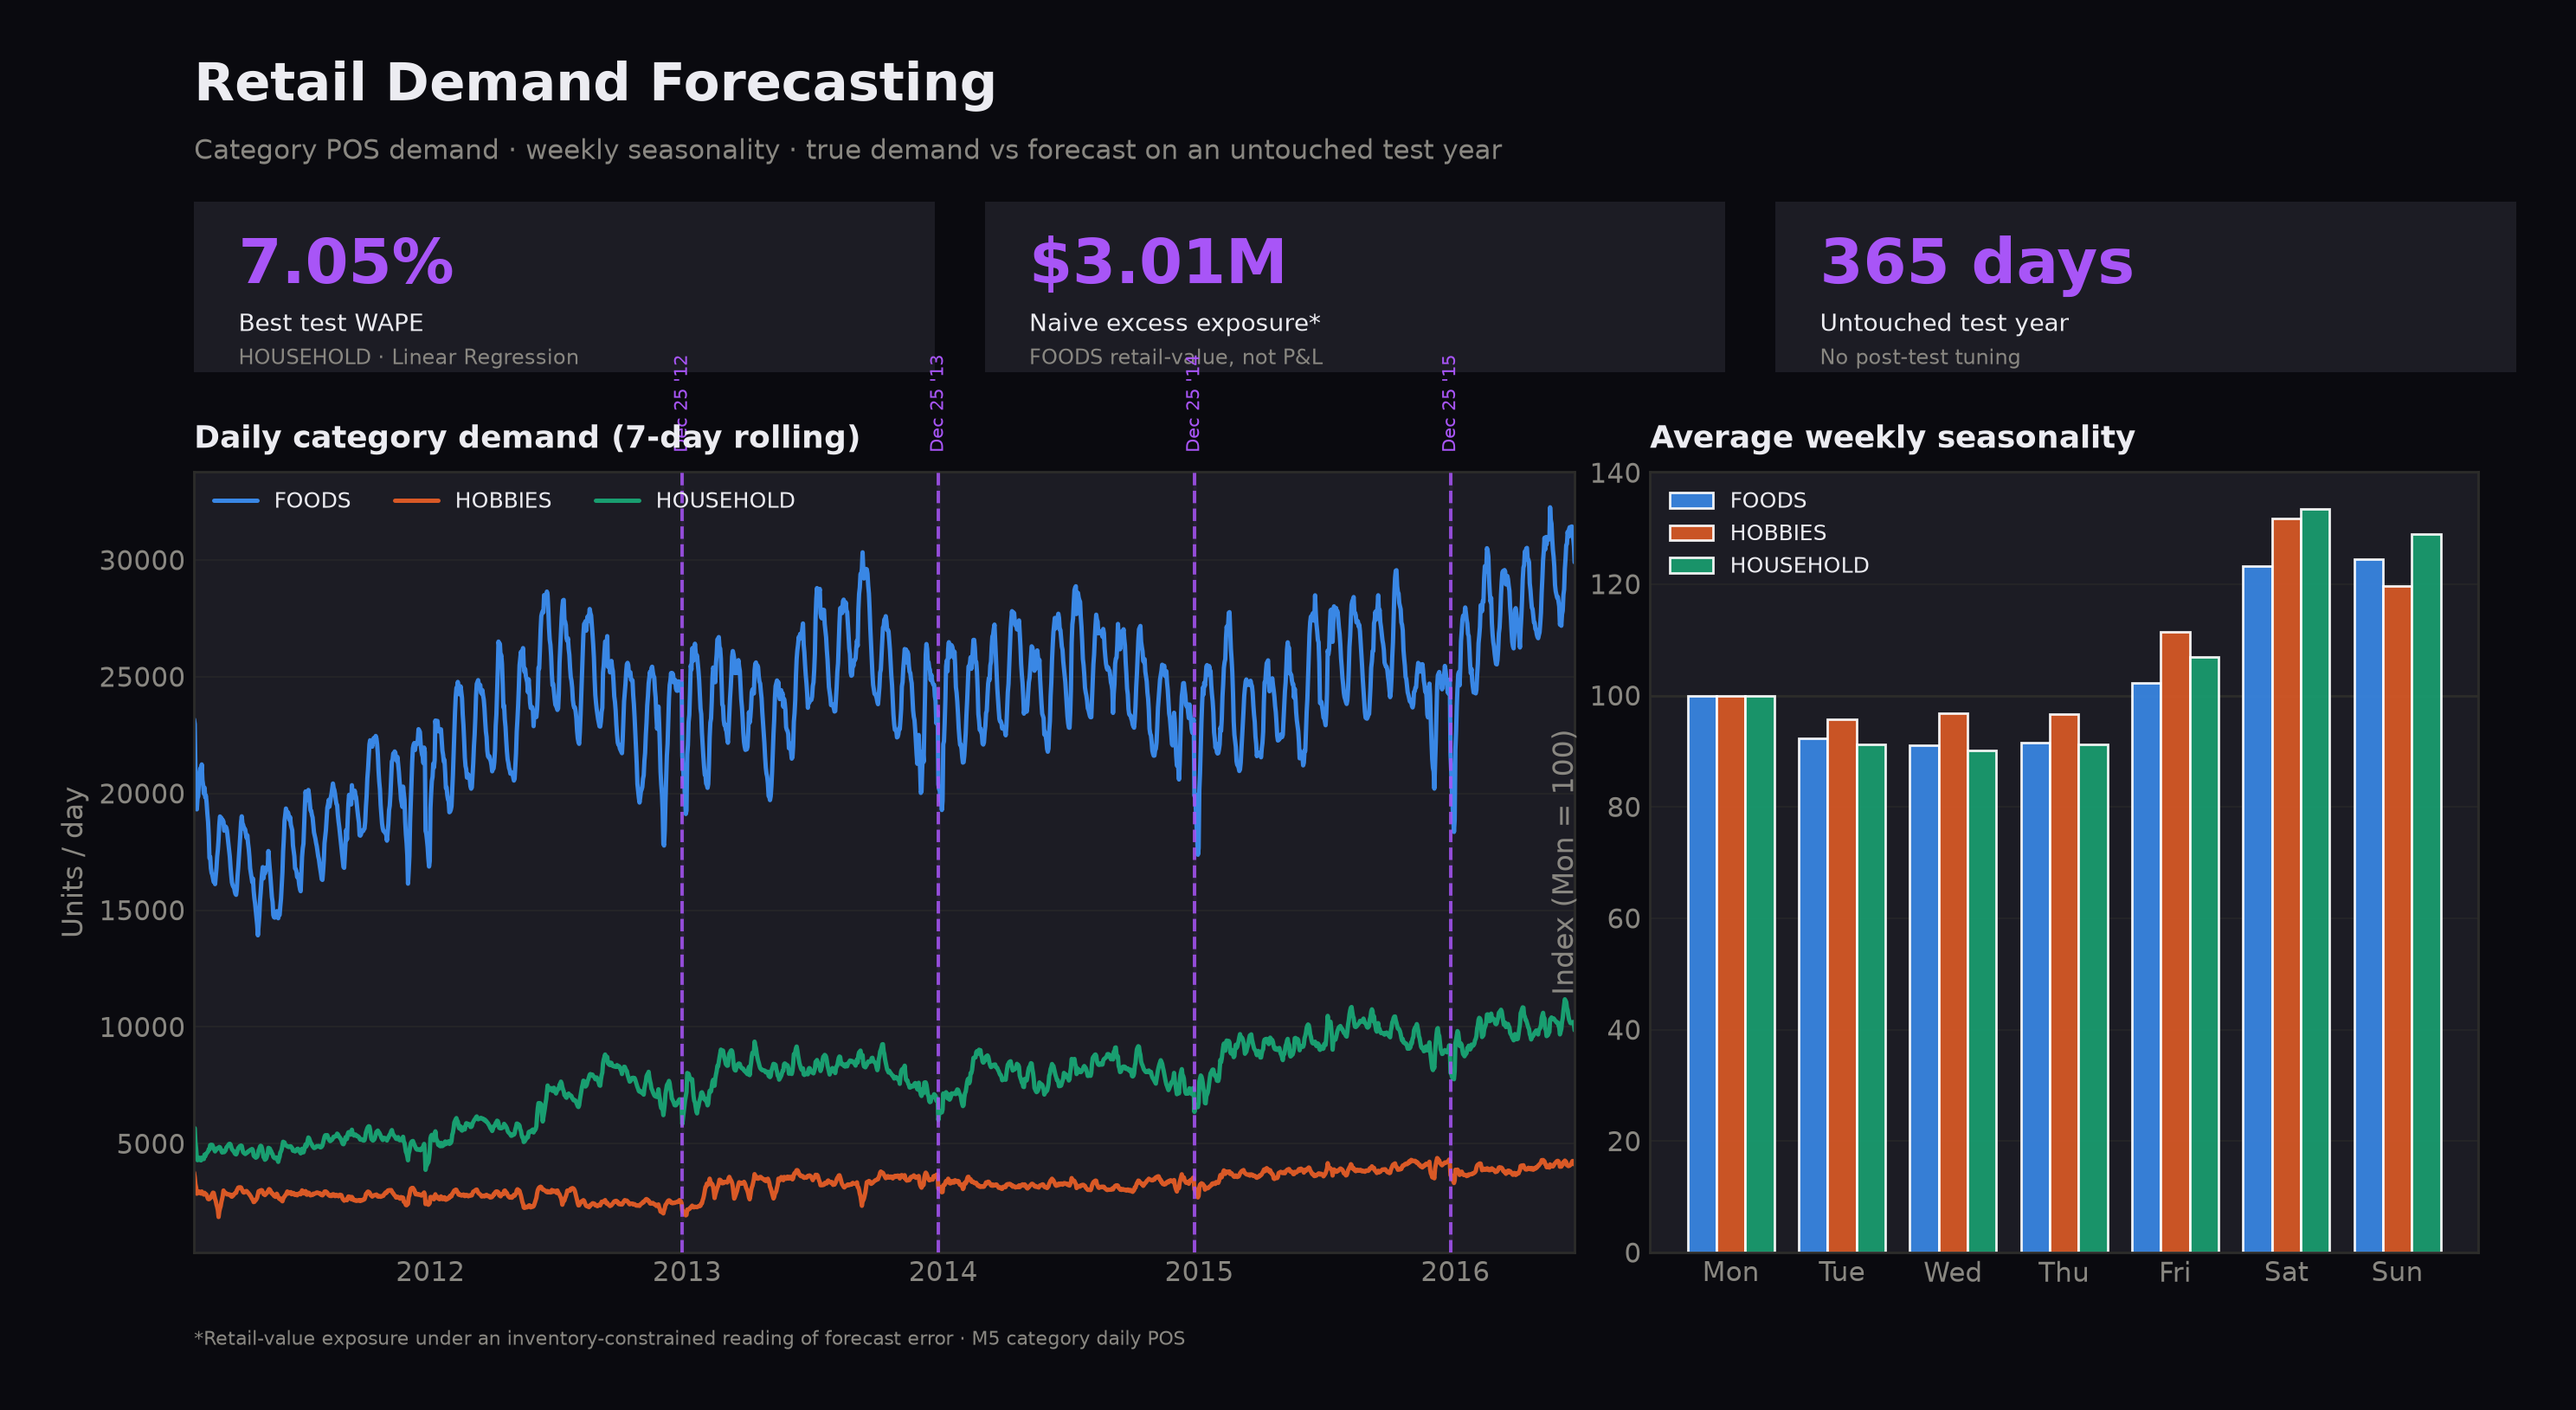
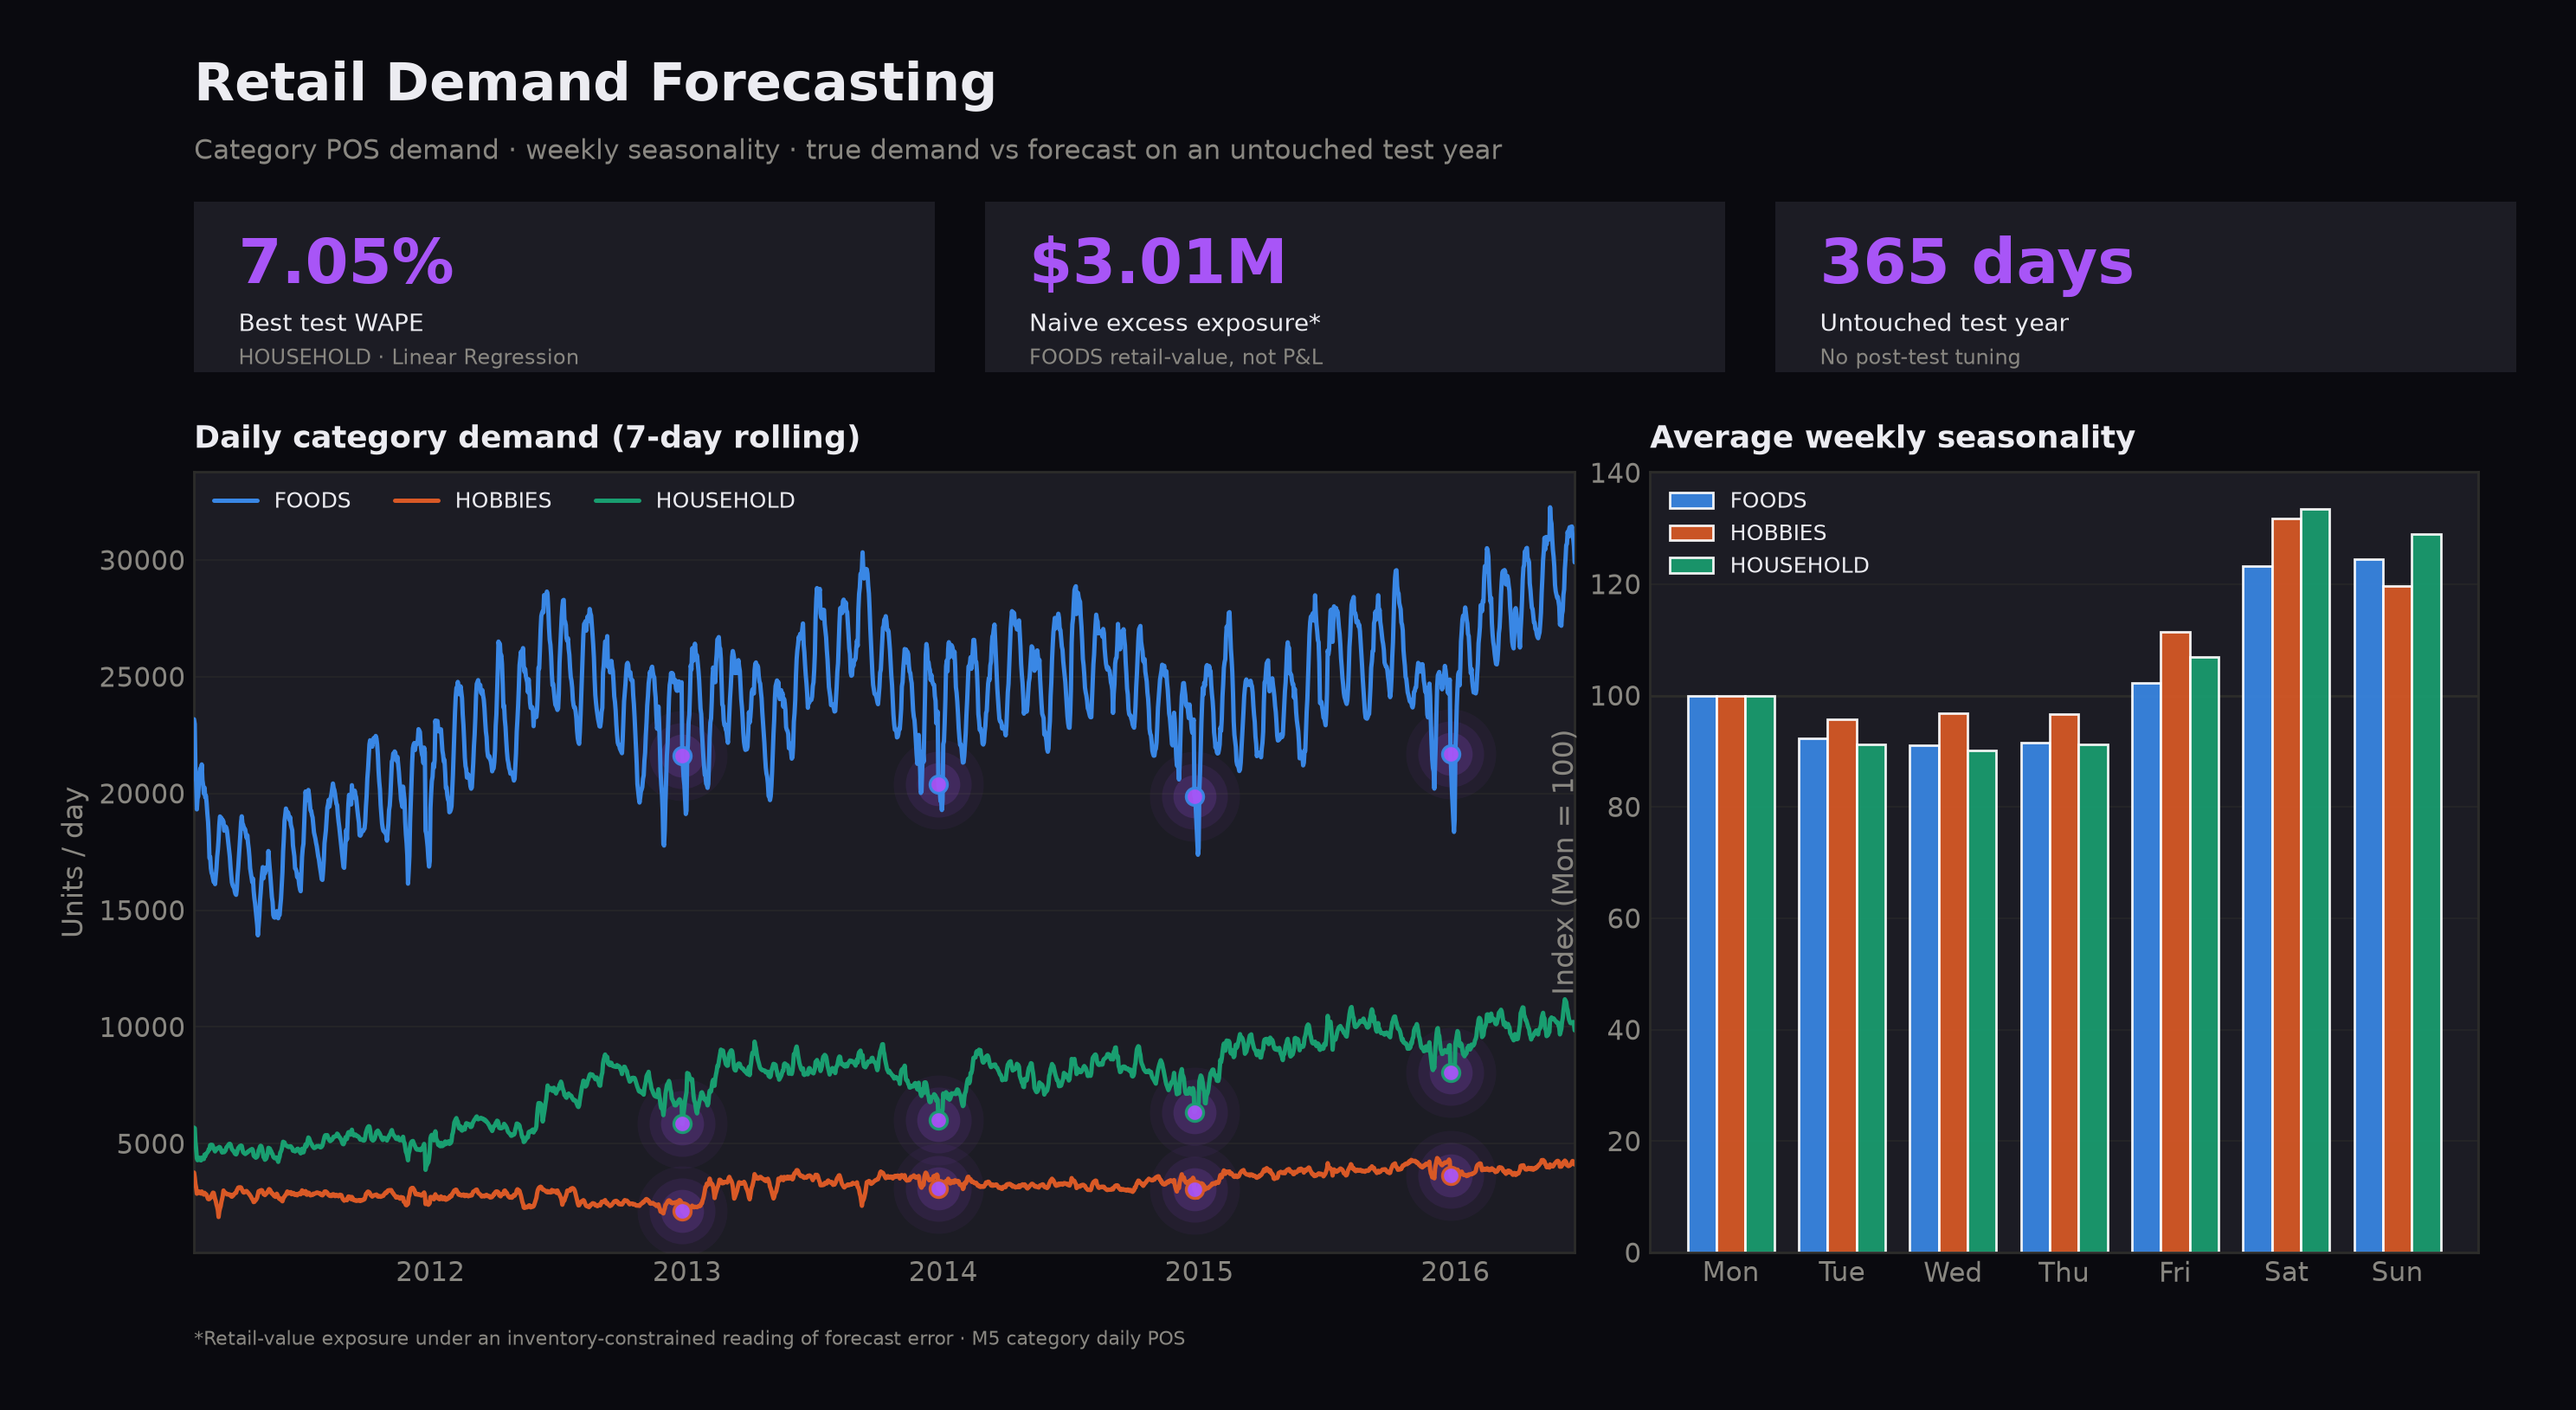
Replace Dec 25 vertical lines with soft glow highlights.
Use layered shadow circles at Christmas demand dips on interactive and static seasonality charts for a cleaner, more aesthetic highlight.

diff --git a/src/components/RetailForecastCharts.jsx b/src/components/RetailForecastCharts.jsx
@@ -8,7 +8,6 @@ import {
     ComposedChart,
     Legend,
     Line,
-    ReferenceLine,
     ResponsiveContainer,
     Tooltip,
     XAxis,
@@ -83,10 +82,17 @@ const tickYear = (ds) => {
     return "";
 };
 
-const ChristmasDot = (color) =>
-    function ChristmasDotMarker({ cx, cy, payload }) {
+const ChristmasGlow = (seriesColor) =>
+    function ChristmasGlowMarker({ cx, cy, payload }) {
         if (!payload?.isChristmas || cx == null || cy == null) return null;
-        return <circle cx={cx} cy={cy} r={5} fill={CHART.accent} stroke={color} strokeWidth={2} />;
+        return (
+            <g>
+                <circle cx={cx} cy={cy} r={26} fill={CHART.accent} fillOpacity={0.07} />
+                <circle cx={cx} cy={cy} r={18} fill={CHART.accent} fillOpacity={0.12} />
+                <circle cx={cx} cy={cy} r={11} fill={CHART.accent} fillOpacity={0.2} />
+                <circle cx={cx} cy={cy} r={5} fill={CHART.accent} stroke={seriesColor} strokeWidth={1.5} />
+            </g>
+        );
     };
 
 export default function RetailForecastCharts() {
@@ -173,28 +179,12 @@ export default function RetailForecastCharts() {
             {demandRows.length > 0 && (
                 <ChartShell
                     title="Category demand (7-day rolling)"
-                    caption="Full history (2011–2016). Purple markers highlight Dec 25 — demand collapses to near zero when stores close."
+                    caption="Full history (2011–2016). Soft purple glow marks Dec 25 — demand collapses to near zero when stores close."
                     className="mt-4"
                 >
                     <ResponsiveContainer width="100%" height={460}>
                         <ComposedChart data={demandRows} margin={{ top: 16, right: 12, left: 4, bottom: 28 }}>
                             <CartesianGrid {...gridProps} />
-                            {data.demandRolling?.christmasDates?.map((ds) => (
-                                <ReferenceLine
-                                    key={ds}
-                                    x={ds}
-                                    stroke={CHART.accent}
-                                    strokeDasharray="5 4"
-                                    strokeWidth={1.5}
-                                    label={{
-                                        value: "Dec 25",
-                                        position: "insideTopRight",
-                                        fill: CHART.accent,
-                                        fontSize: 9,
-                                        fontFamily: "JetBrains Mono, monospace",
-                                    }}
-                                />
-                            ))}
                             <XAxis
                                 dataKey="ds"
                                 tickFormatter={tickYear}
@@ -228,7 +218,7 @@ export default function RetailForecastCharts() {
                                     dataKey={c}
                                     stroke={CAT_COLOR[c]}
                                     strokeWidth={2}
-                                    dot={ChristmasDot(CAT_COLOR[c])}
+                                    dot={ChristmasGlow(CAT_COLOR[c])}
                                     activeDot={{ r: 5 }}
                                 />
                             ))}

diff --git a/src/data/content.js b/src/data/content.js
@@ -119,7 +119,7 @@ export const projects = [
         gallery: [
             {
                 src: `${process.env.PUBLIC_URL}/images/retail-demand-sales-seasonality.png`,
-                caption: "Category daily sales (7-day rolling) — purple markers show Dec 25 demand dropping to near zero.",
+                caption: "Category daily sales (7-day rolling) — purple glow marks Dec 25 demand dropping to near zero.",
             },
             {
                 src: `${process.env.PUBLIC_URL}/images/retail-demand-actual-vs-forecast.png`,

diff --git a/scripts/generate_retail_charts.py b/scripts/generate_retail_charts.py
@@ -133,18 +133,19 @@ def make_hero(daily, forecasts):
     ax1 = card_axes(fig, [0.045, 0.10, 0.55, 0.55])
     ax1.set_facecolor(CARD)
     ax1.set_title("Daily category demand (7-day rolling)", loc="left", pad=10)
+    rolled = {}
     for cat, color in CAT_COLORS.items():
         s = daily.loc[daily["cat_id"] == cat].sort_values("ds")
         y = s.set_index("ds")["y"].rolling(7, min_periods=1).mean()
-        ax1.plot(y.index, y.values, color=color, lw=1.8, label=cat)
+        ax1.plot(y.index, y.values, color=color, lw=1.8, label=cat, zorder=4)
+        rolled[cat] = (y.index, y, color)
     soft_y_grid(ax1)
     ax1.set_ylabel("Units / day", color=MUTED)
     ax1.xaxis.set_major_locator(mdates.YearLocator())
     ax1.xaxis.set_major_formatter(mdates.DateFormatter("%Y"))
     ax1.legend(loc="upper left", ncol=3, fontsize=9, labelcolor=INK)
     ax1.set_xlim(daily["ds"].min(), daily["ds"].max())
-    # Christmas markers (subtle accent tint)
-    christmas_markers(ax1, years=range(2012, 2017))
+    christmas_glow(ax1, rolled, years=range(2012, 2017))
 
     # Seasonality
     ax2 = card_axes(fig, [0.625, 0.10, 0.33, 0.55])
@@ -181,24 +182,26 @@ def make_hero(daily, forecasts):
     print("wrote", out)
 
 
-def christmas_markers(ax, years=range(2012, 2017)):
-    """Highlight Dec 25 demand collapses — visible on dark theme."""
-    ymin, ymax = ax.get_ylim()
+def christmas_glow(ax, rolled_series, years=range(2012, 2017)):
+    """Soft circle highlights at Dec 25 demand dips."""
     for year in years:
         x = pd.Timestamp(f"{year}-12-25")
-        ax.axvline(x, color=ACCENT, lw=1.4, ls="--", zorder=4, alpha=0.85)
-        ax.axvspan(x - pd.Timedelta(days=1), x + pd.Timedelta(days=1), color=ACCENT, alpha=0.06, zorder=1)
-        ax.annotate(
-            f"Dec 25 '{str(year)[2:]}",
-            xy=(x, ymax),
-            xytext=(0, 8),
-            textcoords="offset points",
-            ha="center",
-            va="bottom",
-            fontsize=7.5,
-            color=ACCENT,
-            rotation=90,
-        )
+        for cat, (index, values, line_color) in rolled_series.items():
+            if x not in index:
+                continue
+            yv = float(values.loc[x])
+            for size, alpha in ((1400, 0.05), (750, 0.09), (320, 0.16)):
+                ax.scatter([x], [yv], s=size, color=ACCENT, alpha=alpha, zorder=3, linewidths=0)
+            ax.scatter(
+                [x],
+                [yv],
+                s=52,
+                color=ACCENT,
+                alpha=0.95,
+                zorder=5,
+                edgecolors=line_color,
+                linewidths=1.2,
+            )
 
 
 def export_demand_rolling(daily):
@@ -232,13 +235,15 @@ def make_seasonality(daily):
     ax.set_facecolor(SURFACE)
     ax.set_title("Category daily sales (7-day rolling)", loc="left", pad=14, fontsize=14)
 
+    rolled = {}
     for cat, color in CAT_COLORS.items():
         s = daily.loc[daily["cat_id"] == cat].sort_values("ds")
         y = s.set_index("ds")["y"].rolling(7, min_periods=1).mean()
-        ax.plot(y.index, y.values, color=color, lw=2.0, label=cat)
+        ax.plot(y.index, y.values, color=color, lw=2.0, label=cat, zorder=4)
+        rolled[cat] = (y.index, y, color)
 
     soft_y_grid(ax)
-    christmas_markers(ax)
+    christmas_glow(ax, rolled)
     ax.set_ylabel("Units sold / day", fontsize=11)
     ax.legend(loc="upper left", ncol=3, fontsize=10)
     ax.xaxis.set_major_locator(mdates.YearLocator())
@@ -248,7 +253,7 @@ def make_seasonality(daily):
     fig.text(
         0.045,
         0.03,
-        "Purple markers = Dec 25 · demand drops to near zero when stores close · FOODS highest volume · HOUSEHOLD rising over time",
+        "Purple glow = Dec 25 · demand drops to near zero when stores close · FOODS highest volume · HOUSEHOLD rising over time",
         fontsize=9,
         color=MUTED,
     )
